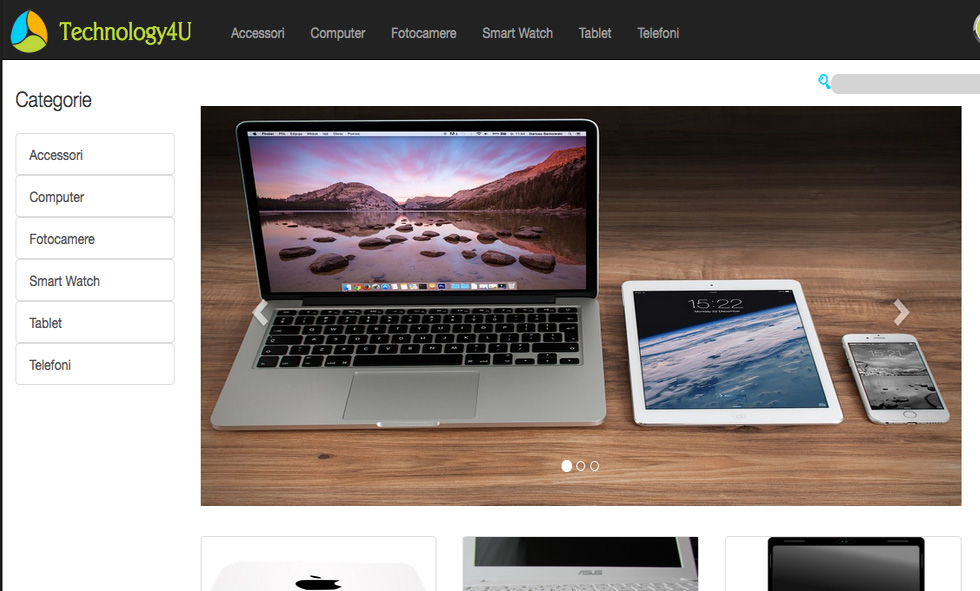
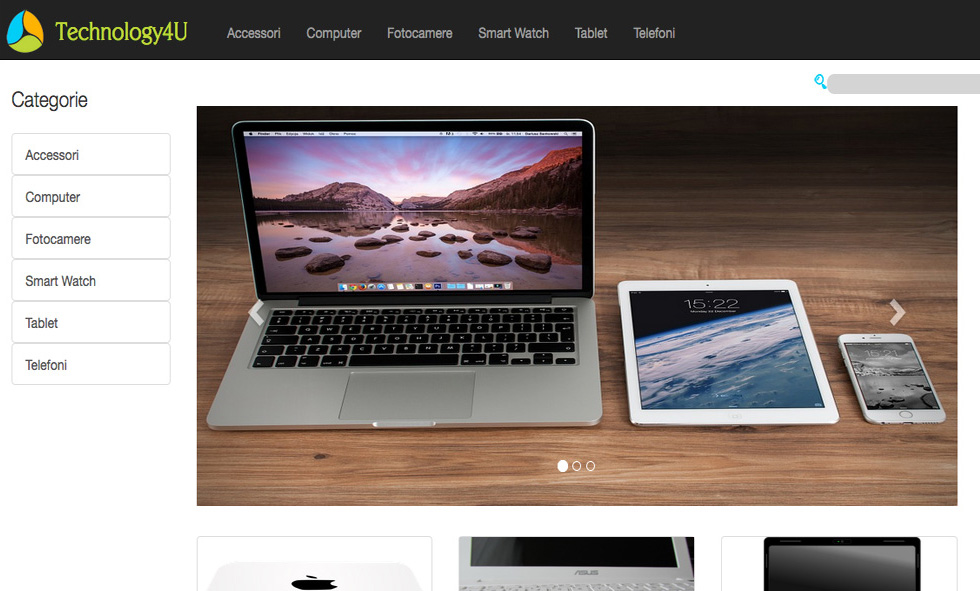
websites section wip

diff --git a/include/css/stylesheet.css b/include/css/stylesheet.css
@@ -67,6 +67,7 @@ a:active{color:lightslategray;text-decoration:none;}
     /*height: 20vh;*/
     width:360px;
     height:220px;
+border: 1px #acacac solid;
 }
 .imageLink{
     width:360px;
@@ -81,11 +82,9 @@ a:active{color:lightslategray;text-decoration:none;}
     width:100%;
     height:100%;
 }
-.scale{
-    opacity: 0.5;
-    width:90% !important;
-    height:90% !important;
-
+.websites{
+    max-width: 1280px;
+    background:red;
 }
 #content_frameworks {
     margin-top: 5%;
@@ -99,6 +98,8 @@ a:active{color:lightslategray;text-decoration:none;}
     /*display: table-cell;*/
     /*vertical-align: middle;*/
     margin-top: 5%;
+    background-image: url("../../img/bg1.png");
+    background-size:100% ;
 }
 #content_web {
     height: 100vh;
@@ -109,7 +110,7 @@ a:active{color:lightslategray;text-decoration:none;}
 
 #content_works{
     height:95vh;
-    margin-top: 3%;
+    margin-top: 5%;
     width:100%
 }
 

diff --git a/Works/Laboa/atrium.php b/Works/Laboa/atrium.php
@@ -2,74 +2,79 @@
 
 require_once('navigation.php');
 ?>
-<div class="container">
-    <div class="col-md-12" style="margin: auto;">
-        <div class="col-md-12">
-            A back-end control panel for a better organization of courses.<br>
-            The administrator can create new courses selectiong the maximum number of subscribers.
-        </div>
-        <br>
-        <div class="col-md-12" style="padding:10px;border: 1px lightgray solid;width:430px;height:260px;">
-            <img src="inc/img/4.png" class="image" alt="">
-        </div>
-        <br>
-        <br>
-        <div class="col-md-12">
-            A multiple languages form
-            lets people subscribe to the desired course.<br>
-        </div>
-        <div class="col-md-12" style="padding:10px;border: 1px lightgray solid;width:430px;">
-            <img src="inc/img/3.png" class="image" alt="">
-        </div>
-        <br>
-        <div class="col-md-12">
-            All the input are verified and potential errors are displayed to the user.<br>
-            The administrator receive an email every time someone subscribes and get a notification on his main control
-            page,
-            where he can check the list of courses and the partecipants.
-        </div>
-        <br>
-        <div class="col-md-12" style="padding:10px;border: 1px lightgray solid;width:430px;height:260px;">
-            <img src="inc/img/1.jpg" class="image" alt="">
-        </div>
-        <br>
-        <br>
-        <div class="col-md-12">
-            A secure way to delete courses was implemented in order to avoid accidental errors.<br>
-        </div>
-        <div class="col-md-12" style="padding:10px;border: 1px lightgray solid;width:430px;height:260px;">
-            <img src="inc/img/2.png" class="image" alt="">
-        </div>
-    </div>
-    <div class="clearfix"></div>
-    <br> <br>
-    <div style="width:450px;margin:auto;">
-        <div class="col-md-12" style="border:1px solid #acacac;">
-            <div class="clearfix"><br></div>
-            <div class="offset-md-3">
-                <img src="../../img/laboa.png" alt="" style="max-width:220px;">
-            </div>
-            <div class="clearfix"><br></div>
+<div class="col-md-12" style="background:#ffcb76;padding:20px">
+    <div class="col-md-6 offset-md-3" style="background:white;border-radius: 25px;padding:20px">
+        <div class="col-md-12" style="margin: auto;">
             <div class="col-md-12">
+                <h2>LaBoa.org</h2>
+                <div class="col-md-12 clearfix"><br></div>
+                A back-end control panel for a better organization of courses.<br>
+                The administrator can create new courses selectiong the maximum number of subscribers.
+            </div>
+            <div class="col-md-12" style="padding:10px;border: 1px lightgray solid;width:430px;height:260px;">
+                <img src="inc/img/4.png" class="image" alt="">
+            </div>
+            <div class="col-md-12 clearfix"><br></div>
+            <div class="col-md-12">
+                A multiple languages form
+                lets people subscribe to the desired course.<br>
+            </div>
+            <div class="col-md-12" style="padding:10px;border: 1px lightgray solid;width:430px;">
+                <img src="inc/img/3.png" class="image" alt="">
+            </div>
+            <div class="col-md-12 clearfix"><br></div>
+            <div class="col-md-12">
+                All the input are verified and potential errors are displayed to the user.<br>
+                <div class="col-md-12 clearfix"><br></div>
+
+                The administrator receive an email every time someone subscribes and get a notification on his main control
+                page,
+                where he can check the list of courses and the partecipants.
+            </div>
+            <div class="col-md-12" style="padding:10px;border: 1px lightgray solid;width:430px;height:260px;">
+                <img src="inc/img/1.jpg" class="image" alt="">
+            </div>
+            <div class="col-md-12 clearfix"><br></div>
+            <div class="col-md-12">
+                A secure way to delete courses was implemented in order to avoid accidental errors.<br>
+            </div>
+            <div class="col-md-12" style="padding:10px;border: 1px lightgray solid;width:430px;height:260px;">
+                <img src="inc/img/2.png" class="image" alt="">
+            </div>
+        </div>
+        <div class="col-md-12 clearfix"><br></div>
+
+        <div style="width:450px;margin:auto;">
+            <div class="col-md-12" style="border:1px solid #acacac;">
+                <div class="clearfix"><br></div>
+                <div class="offset-md-3">
+                    <img src="../../img/laboa.png" alt="" style="max-width:220px;">
+                </div>
+                <div class="clearfix"><br></div>
                 <div class="col-md-12">
-                    <form action="http://www.laboa.org" method="POST">
-                        <input type="submit"
-                               class="showImage btn btn-block btn-outline-primary"
-                               name="Laboa" value="Go to Laboa.org">
-                    </form>
-                    <div class="clearfix"><br></div>
+                    <div class="col-md-12">
+                        <form action="http://www.laboa.org" method="POST">
+                            <input type="submit"
+                                   class="showImage btn btn-block btn-outline-primary"
+                                   name="Laboa" value="Go to Laboa.org">
+                        </form>
+                        <div class="clearfix"><br></div>
+                    </div>
                 </div>
             </div>
+
         </div>
+
         <div class="col-md-12 clearfix"><br></div>
         <div class="col-md-8 offset-md-2">
             <form action="../../index.php" method="POST"><input type="submit"
                                                                 class="showImage btn btn-block btn-outline-gray"
                                                                 name="" value="Back to the Portfolio"></form>
         </div>
+
     </div>
+
 </div>
-<div class="clearfix"></div>
-<br>
+
 </body>
 </html>

diff --git a/Works/Technology4u/atrium.php b/Works/Technology4u/atrium.php
@@ -19,7 +19,7 @@ if ($user->isLoggedIn()) {
     <meta name="description" content="">
     <!-- <meta name="author" content="ScappinDebora&SoldatiGabriele">-->
 
-    <title>ImageVault</title>
+    <title>Technology4U</title>
 
     <!-- Normalize CSS -->
     <link href="css/normalize.css" rel="stylesheet">
@@ -41,55 +41,56 @@ if ($user->isLoggedIn()) {
     <link rel="stylesheet" type="text/css" href="../../include/lightbox/dist/css/lightbox.min.css">
 
 </head>
-<br>
 
 
-<div class="col-md-12">
-
-    E-commerce website with an advanced login system with secure password and user details storage, including credit
-    cards and ID/Passport scans
-    <ul style="">
-        <li>Login and registering with eMail verification</li>
-        <li>Remember me feature</li>
-        <li>High secure password storage using salt and SHA256 algorithm</li>
-        <li>2 steps login with Time Code</li>
-        <li>Brute Force Attacks protection using Captcha after failed 3 login attempts</li>
-        <li>Secure images storage with name and content encryption</li>
-        <li>Change password functionality</li>
-        <li>Shopping cart with promotional codes</li>
-    </ul>
-</div>
-
-
-<div style="width:450px;margin:auto;">
-
-
-<div class="col-md-12" style="border:1px solid #acacac;">
-    <div class="clearfix"><br></div>
-    <div class="">
-        <img src="../../img/tech4u.jpg" alt="" style="width:100%">
-    </div>
-    <div class="clearfix"><br></div>
-    <div class="col-md-12">
+<div class="col-md-12" style="background:#05cbf8;padding:20px">
+    <div class="col-md-6 offset-md-3" style="background:white;border-radius: 25px;padding:20px">
         <div class="col-md-12">
-            <form action="index.php" method="POST">
-                <input type="submit"
-                       class="btn btn-block btn-outline-primary"
-                       name="website" value="Go to the website">
-            </form>
-            <div class="clearfix"><br></div>
+            <h2>Technology4U</h2>
+            E-commerce website with an advanced login system with secure password and user details storage, including
+            credit
+            cards and ID/Passport scans
+            <ul style="">
+                <li>Login and registering with eMail verification</li>
+                <li>Remember me feature</li>
+                <li>High secure password storage using salt and SHA256 algorithm</li>
+                <li>2 steps login with Time Code</li>
+                <li>Brute Force Attacks protection using Captcha after failed 3 login attempts</li>
+                <li>Secure images storage with name and content encryption</li>
+                <li>Change password functionality</li>
+                <li>Shopping cart with promotional codes</li>
+            </ul>
         </div>
-    </div>
-</div>
 
-<div class="col-md-12 clearfix"><br></div>
-<div class="col-md-8 offset-md-2">
-    <form action="../../index.php" method="POST"><input type="submit"
-                                                        class="showImage btn btn-block btn-outline-gray"
-                                                        name="" value="Back to the Portfolio"></form>
-</div>
+        <div class="col-md-12" style="border:1px solid #acacac;">
+            <div class="clearfix"><br></div>
+            <div class="">
+                <img src="../../img/tech4u.jpg" alt="" style="width:100%">
+            </div>
+            <div class="clearfix"><br></div>
+            <div class="col-md-12">
+                <div class="col-md-12">
+                    <form action="index.php" method="POST">
+                        <input type="submit"
+                               class="btn btn-block btn-outline-primary"
+                               name="website" value="Go to the website">
+                    </form>
+                    <div class="clearfix"><br></div>
+                </div>
+            </div>
+        </div>
+
+        <div class="col-md-12 clearfix"><br></div>
+        <div class="col-md-8 offset-md-2">
+            <form action="../../index.php" method="POST"><input type="submit"
+                                                                class="showImage btn btn-block btn-outline-gray"
+                                                                name="" value="Back to the Portfolio"></form>
+        </div>
+
+    </div>
 
 </div>
 <?php } ?>
+
 </body>
 </html>

diff --git a/index.php b/index.php
@@ -95,17 +95,16 @@
     <span id="index_frameworks"></span>
 
     <div class="image" id="wall_works" data-stellar-background-ratio="0.2"></div>
-    <div class="content" id="content_works" style="">
+    <div class="content" id="content_works">
         <div class="title">Websites</div>
-        <br><br>
-        <div class="col-xl-12" style="max-width:1280px; margin: auto;">
+        <div class="col-xl-12 websites">
             <a href="Works/ImageVault/index.php">
-                <div class="col-md-4 col-md-offset-1 workImage" style="border: 1px #acacac solid;">
+                <div class="col-md-4 col-md-offset-1 workImage">
                     <img class="websiteImage" src="img/vault.jpg" alt="">
                 </div>
             </a>
             <a href="Works/Laboa/atrium.php">
-                <div class="col-md-4 col-md-offset-2 workImage" style="border: 1px #acacac solid;">
+                <div class="col-md-4 col-md-offset-2 workImage">
                     <img class="websiteImage" src="img/laboa.png" alt="">
                 </div>
             </a>
@@ -114,17 +113,17 @@
             <div class="col-md-4 col-md-offset-2 imageLink"><a href="Works/Laboa/atrium.php"><p>Laboa.org</p></a></div>
             <div class="col-md-12"><br></div>
             <a href="Works/Technology4u/atrium.php">
-                <div class="col-md-4 col-md-offset-1 workImage" style="border: 1px #acacac solid;">
+                <div class="col-md-4 col-md-offset-1 workImage">
                     <img class="websiteImage" src="img/tech4u.jpg">
                 </div>
             </a>
-            <div class="col-md-4 col-md-offset-2 workImage" style="border: 1px #acacac solid;">
+            <div class="col-md-4 col-md-offset-2 workImage">
                 <img class="websiteImage" src="img/8.jpg" alt="">
             </div>
             <div class="col-md-4 col-md-offset-1 imageLink"><a href="Works/Technology4u/atrium.php"><p>Technoloy4u</p>
                 </a></div>
             <div class="col-md-4 col-md-offset-2 imageLink">
-                <p>sito</p>
+                <p>EasyRetrieve</p>
             </div>
         </div>
         <div class="clearfix">
@@ -208,3 +207,4 @@
 
 </body>
 </html>
+

diff --git a/Works/Laboa/navigation.php b/Works/Laboa/navigation.php
@@ -218,7 +218,6 @@
         max-height:100%;
     }
  --></style>
-<br>
 
 
 
